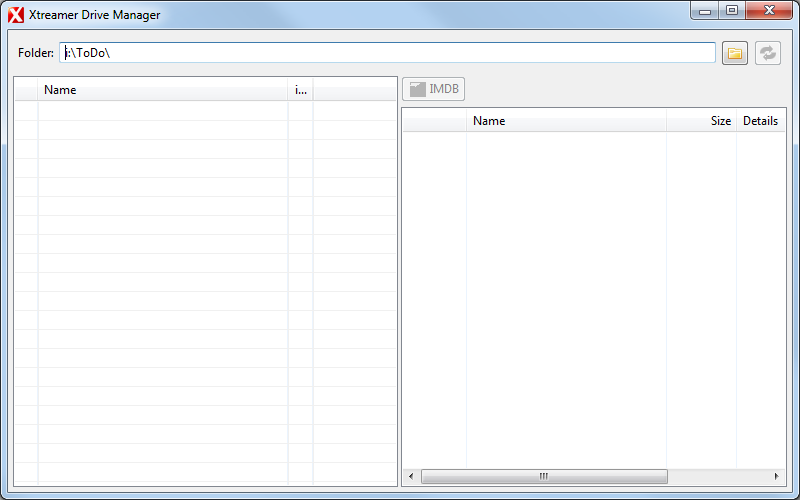
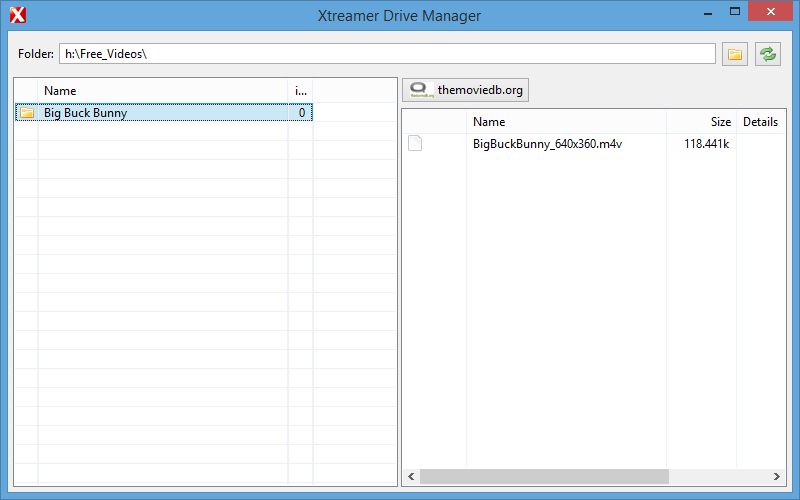
updated screenshots

Changed region(s): [[0.0, 0.0, 1.0, 1.0], [0.5, 0.27, 0.5312, 0.3]]

diff --git a/README.md b/README.md
@@ -22,3 +22,8 @@ or via Java system property:
 
 ````java -DAPI_KEY=ab123456789012345678901234567890cd de.bitkings.ManageDrives````
 
+## Screenshots
+
+![The main window](/screenshots/empty_main_window.png?raw=true)
+
+![Downloading movie information](/screenshots/download_info_from_themoviedb.png?raw=true)
